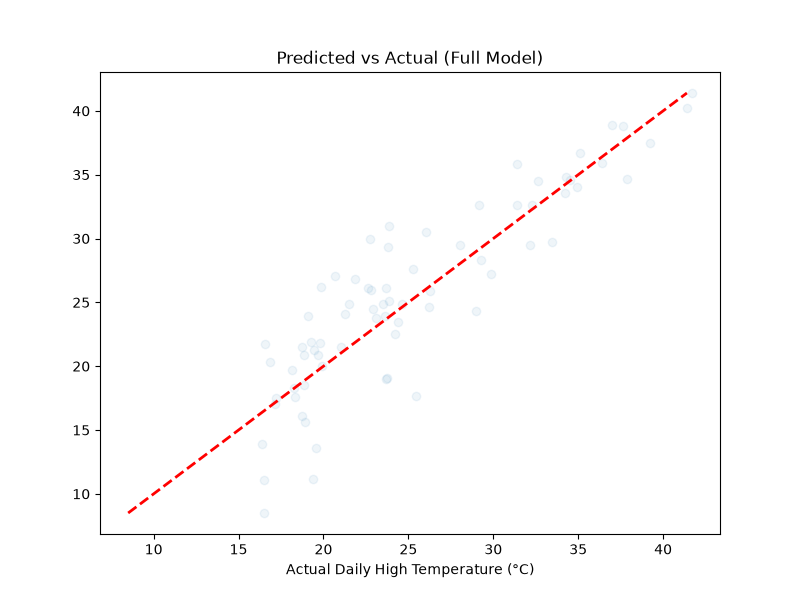
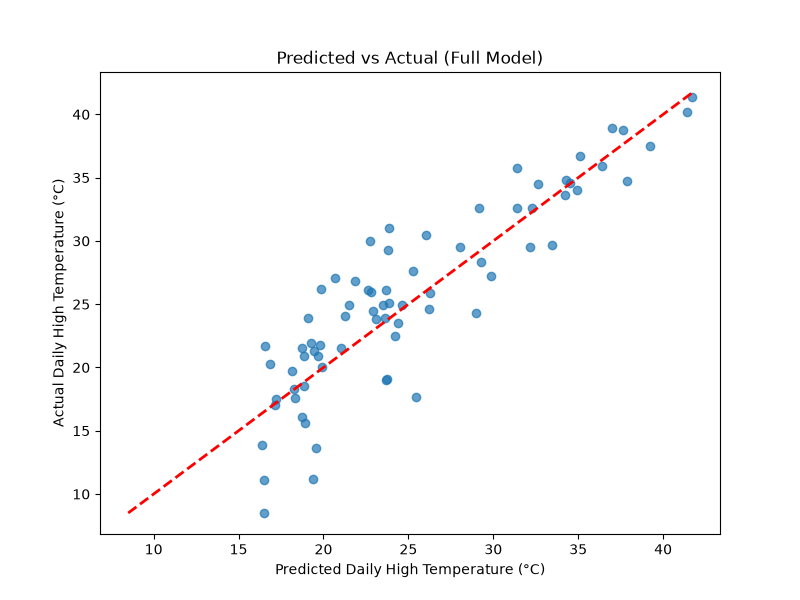
assignments_02 edits

diff --git a/assignments_02/projects_02.py b/assignments_02/projects_02.py
@@ -174,18 +174,18 @@ for name, coef in zip(feature_cols, model.coef_):
 y_pred = model.predict(X_test)
 
 plt.figure(figsize=(8, 6))
-plt.scatter(y_pred, y_test, alpha=0.07)
+plt.scatter(y_pred, y_test, alpha=0.7)
 
 # Diagonal line 
 # Diagonal line 
 min_val = min(y_test.min(), y_pred.min())
-max_val = max(y_test.max(), y_pred.min())
+max_val = max(y_test.max(), y_pred.max())
 
 plt.plot([min_val, max_val], [min_val, max_val], "r--", linewidth=2)
 
 plt.title("Predicted vs Actual (Full Model)")
 plt.xlabel("Predicted Daily High Temperature (°C)")
-plt.xlabel("Actual Daily High Temperature (°C)")
+plt.ylabel("Actual Daily High Temperature (°C)")
 
 plt.savefig("outputs/predicted_vs_actual_high.png")
 plt.close()

diff --git a/assignments_02/warmup_02.py b/assignments_02/warmup_02.py
@@ -129,13 +129,13 @@ plt.scatter(y_pred, y_test)
 
 # Diagonal line 
 min_val = min(y_test.min(), y_pred.min())
-max_val = max(y_test.max(), y_pred.min())
+max_val = max(y_test.max(), y_pred.max())
 
 plt.plot([min_val, max_val], [min_val, max_val], "r--")
 
 plt.title("Predicted vs Actual")
 plt.xlabel("Predicted High Temperature")
-plt.xlabel("Actual high Temperature")
+plt.ylabel("Actual high Temperature")
 
 plt.savefig("outputs/predicted_vs_actual_warmup.png")
 plt.close()
